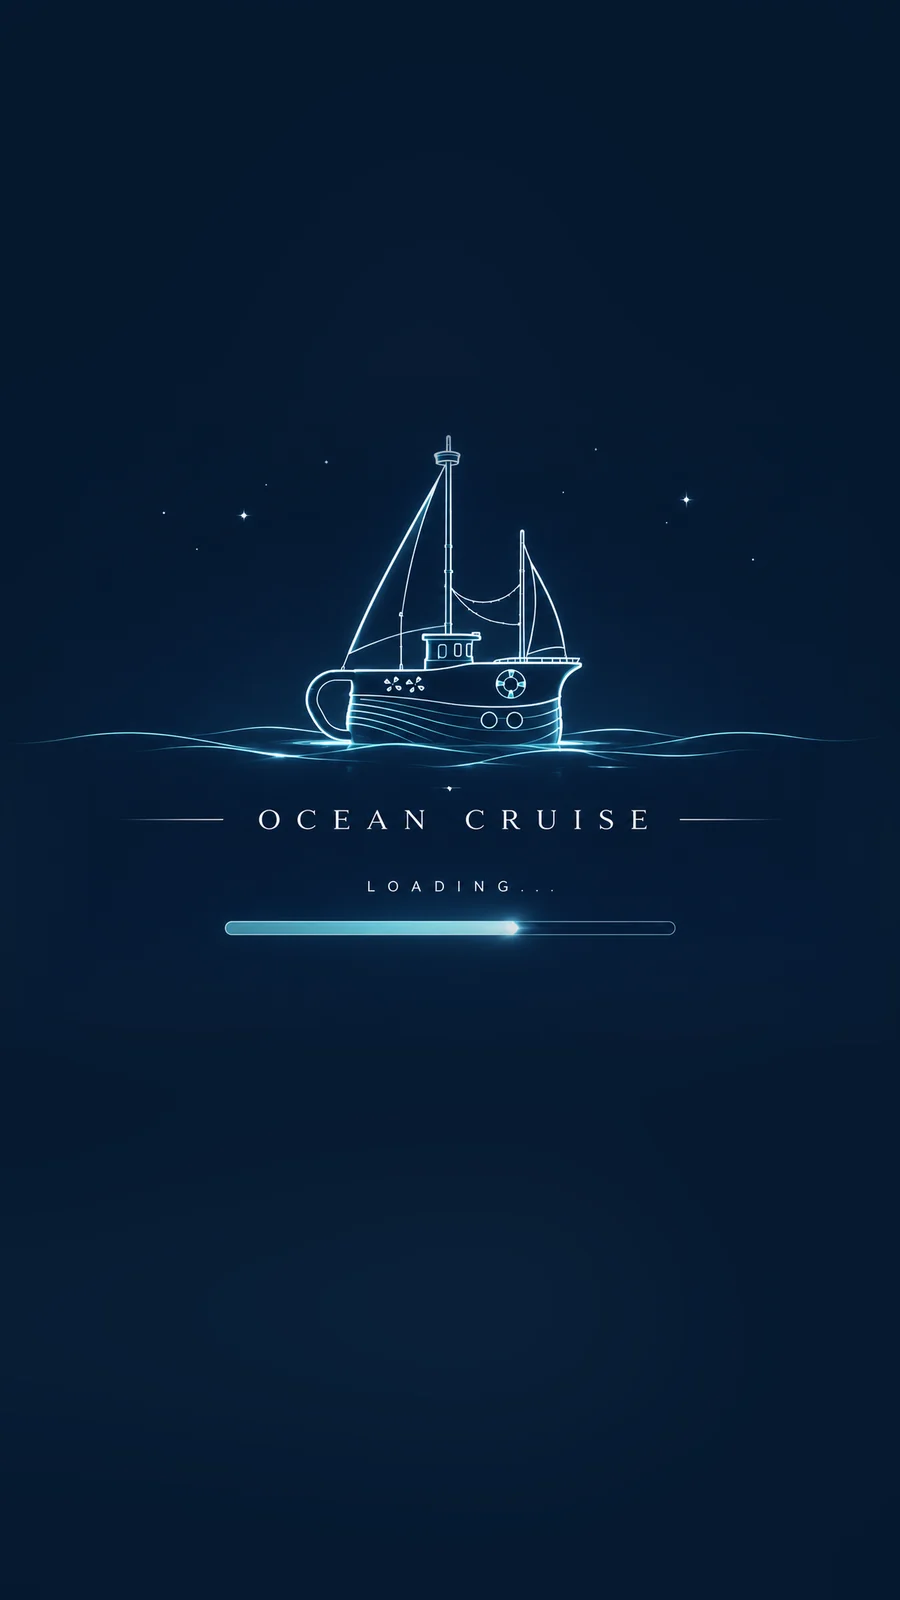
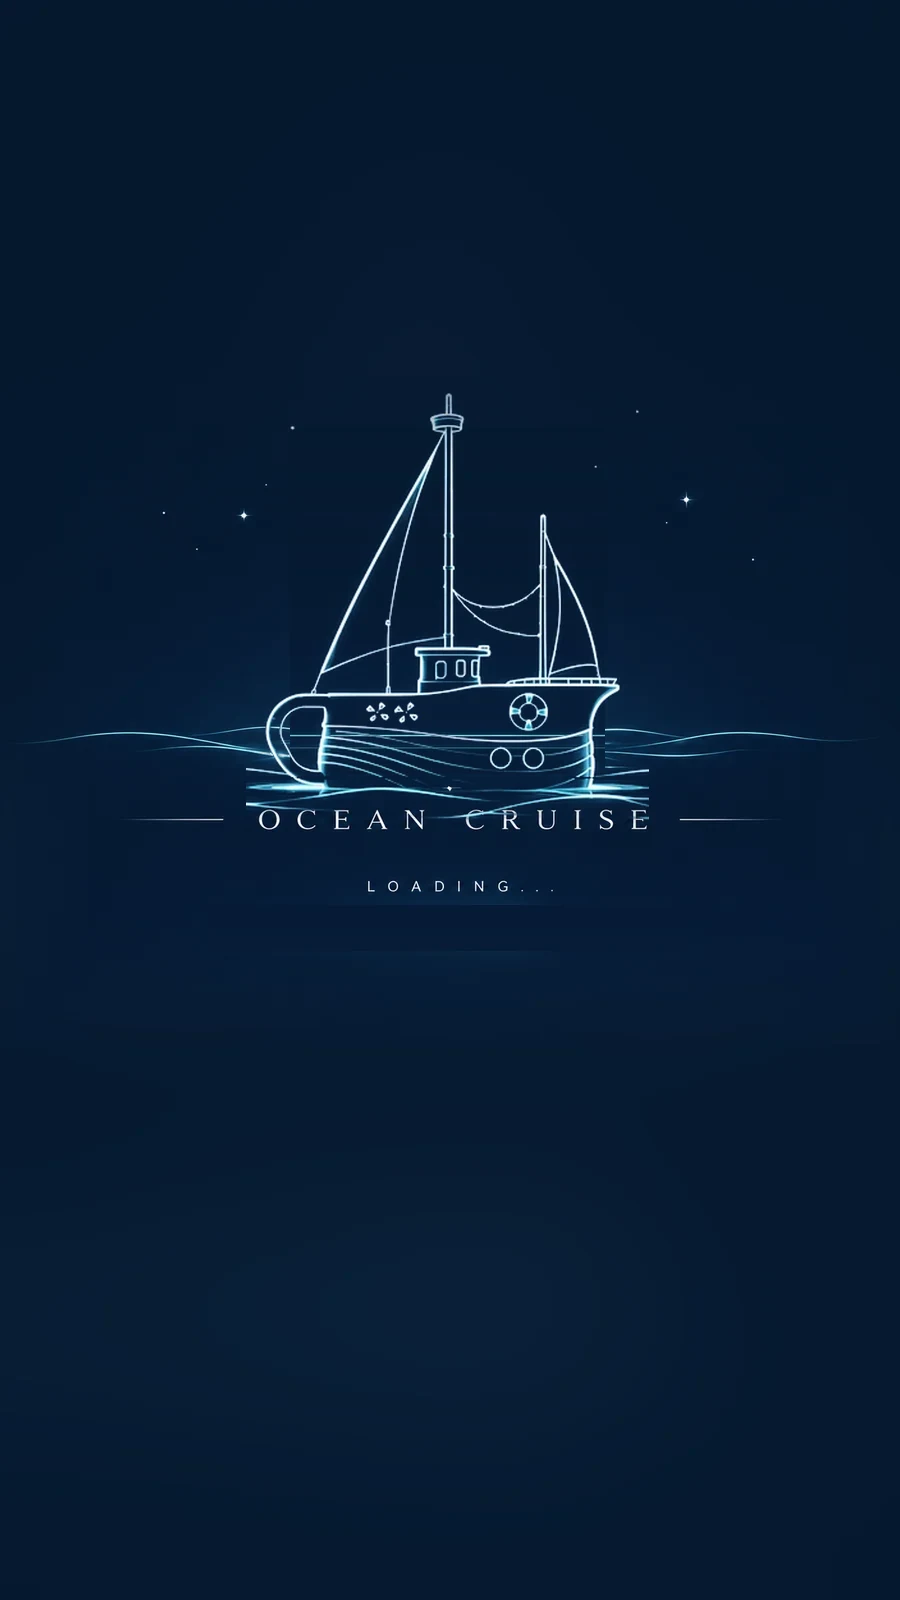
Add files via upload

Changed region(s): [[0.28, 0.25, 0.7156, 0.5312], [0.2489, 0.5625, 0.6222, 0.5938]]

diff --git a/src/loading-screen.css b/src/loading-screen.css
@@ -1,31 +1,9 @@
-/* Minimal Ocean Cruise line-art loading cover.
-   The existing main.js owns readiness checks and the fade-out transition. */
-#sea-loading {
-  background: #05182e url('/loading/ocean-cruise-loading.webp') center center / cover no-repeat !important;
-}
-#sea-loading .sea-loading-inner {
-  /* Keep the DOM in place so main.js can report loading failures. */
-  position: absolute;
-  left: 50%;
-  bottom: max(12px, env(safe-area-inset-bottom));
-  transform: translateX(-50%);
-  width: min(90vw, 500px);
-  pointer-events: none;
-}
-#sea-loading .sea-loading-mark,
-#sea-loading .sea-loading-title,
-#sea-loading .sea-loading-track { display: none !important; }
-#sea-loading .sea-loading-subtitle {
-  margin: 0;
-  font-size: 10px;
-  letter-spacing: .08em;
-  color: #a3cad8;
-  opacity: .72;
-  text-shadow: 0 1px 8px #001324;
-}
-@media (max-aspect-ratio: 4/5) {
-  #sea-loading {
-    background-image: url('/loading/ocean-cruise-loading-mobile.webp') !important;
-    background-size: cover !important;
-  }
-}
+/* Image contains ship and typography only; real loading progress is HTML. */
+#sea-loading{background:#05182e url('/loading/ocean-cruise-loading.webp') center / 100% 100% no-repeat!important}
+#sea-loading .sea-loading-inner{position:absolute;inset:0;width:100%;transform:none;left:auto;bottom:auto;pointer-events:none}
+#sea-loading .sea-loading-mark,#sea-loading .sea-loading-title{display:none!important}
+#sea-loading .sea-loading-subtitle{position:absolute;bottom:3%;left:50%;transform:translateX(-50%);margin:0;color:#b8e0eb;font-size:11px;white-space:nowrap;opacity:.9}
+#sea-loading .sea-loading-track{display:block!important;position:absolute;left:31.55%;top:80.1%;width:36%;height:1.8%;max-height:12px;min-height:5px;border:1px solid #7dbbd0;border-radius:99px;background:#061a30;overflow:hidden;box-shadow:0 0 10px #2b8bb033}
+#sea-loading .sea-loading-progress{display:block!important;width:0%;height:100%;background:linear-gradient(90deg,#3d9fbb,#b3f8ff);border-radius:99px;animation:none!important;transform:none!important;transition:width .18s linear;box-shadow:0 0 9px #9df4ff}
+@media(max-aspect-ratio:4/5){#sea-loading{background-image:url('/loading/ocean-cruise-loading-mobile.webp')!important}#sea-loading .sea-loading-track{left:25%;width:50%;top:57.6%;height:0.85%;min-height:5px}#sea-loading .sea-loading-subtitle{bottom:17%}}
+@media(prefers-reduced-motion:reduce){#sea-loading .sea-loading-progress{transition:none}}

diff --git a/src/loading-progress.js b/src/loading-progress.js
@@ -1,0 +1,24 @@
+import * as THREE from 'three';
+// Tracks real Three.js loader completions. Final 100% waits for the game's readiness gate.
+const manager=THREE.DefaultLoadingManager;
+let total=0,loaded=0,complete=false;
+const previousStart=manager.onStart,previousProgress=manager.onProgress,previousLoad=manager.onLoad;
+function show(){
+ const cover=document.querySelector('#sea-loading');
+ if(!cover)return;
+ const bar=cover.querySelector('.sea-loading-progress');
+ if(!bar)return;
+ const progress=complete?100:total?Math.min(95,Math.round(loaded/total*95)):0;
+ bar.style.width=progress+'%';
+ bar.setAttribute('role','progressbar');bar.setAttribute('aria-valuemin','0');bar.setAttribute('aria-valuemax','100');bar.setAttribute('aria-valuenow',String(progress));
+}
+manager.onStart=(url,itemsLoaded,itemsTotal)=>{total=Math.max(total,itemsTotal);loaded=Math.max(loaded,itemsLoaded);previousStart?.(url,itemsLoaded,itemsTotal);show()};
+manager.onProgress=(url,itemsLoaded,itemsTotal)=>{total=Math.max(total,itemsTotal);loaded=Math.max(loaded,itemsLoaded);previousProgress?.(url,itemsLoaded,itemsTotal);show()};
+manager.onLoad=()=>{previousLoad?.();show()};
+const observer=new MutationObserver(()=>{
+ const cover=document.querySelector('#sea-loading');
+ if(!cover)return;
+ if(cover.classList.contains('sea-loading-done')){complete=true;show();observer.disconnect()}
+ else show();
+});
+observer.observe(document.documentElement,{childList:true,subtree:true,attributes:true,attributeFilter:['class']});

diff --git a/index.html b/index.html
@@ -1,1 +1,1 @@
-<!doctype html><html lang="ko"><head><meta charset="UTF-8"><meta name="viewport" content="width=device-width,initial-scale=1"><meta name="theme-color" content="#062c38"><link rel="icon" href="data:,"><title>OCEAN CRUISE — v0.1</title><link rel="stylesheet" href="/src/loading-screen.css"></head><body><div id="app"></div><script type="module" src="/src/main.js"></script></body></html>
+<!doctype html><html lang="ko"><head><meta charset="UTF-8"><meta name="viewport" content="width=device-width,initial-scale=1"><meta name="theme-color" content="#062c38"><link rel="icon" href="data:,"><title>OCEAN CRUISE — v0.1</title><link rel="stylesheet" href="/src/loading-screen.css"><script type="module" src="/src/loading-progress.js"></script></head><body><div id="app"></div><script type="module" src="/src/main.js"></script></body></html>
